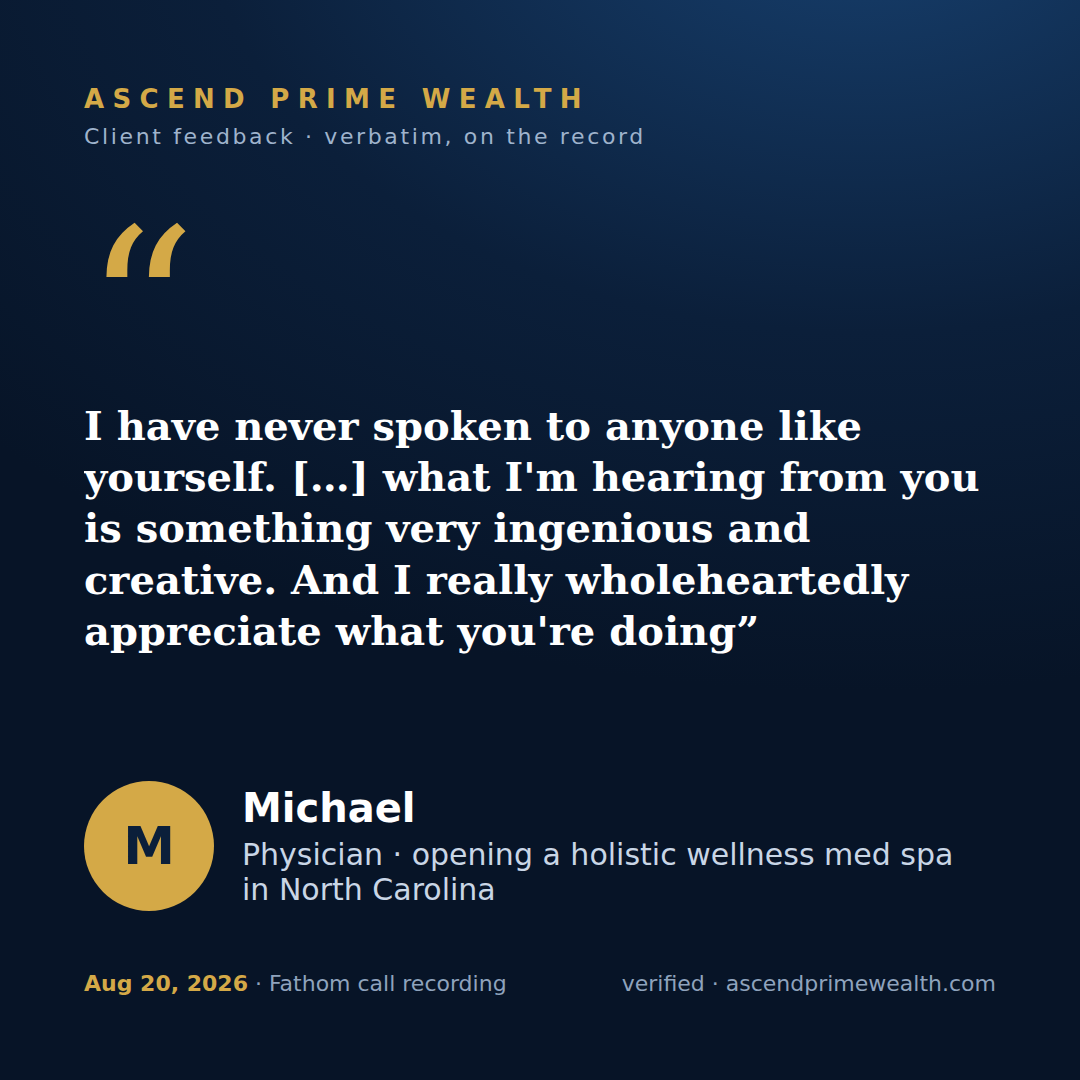
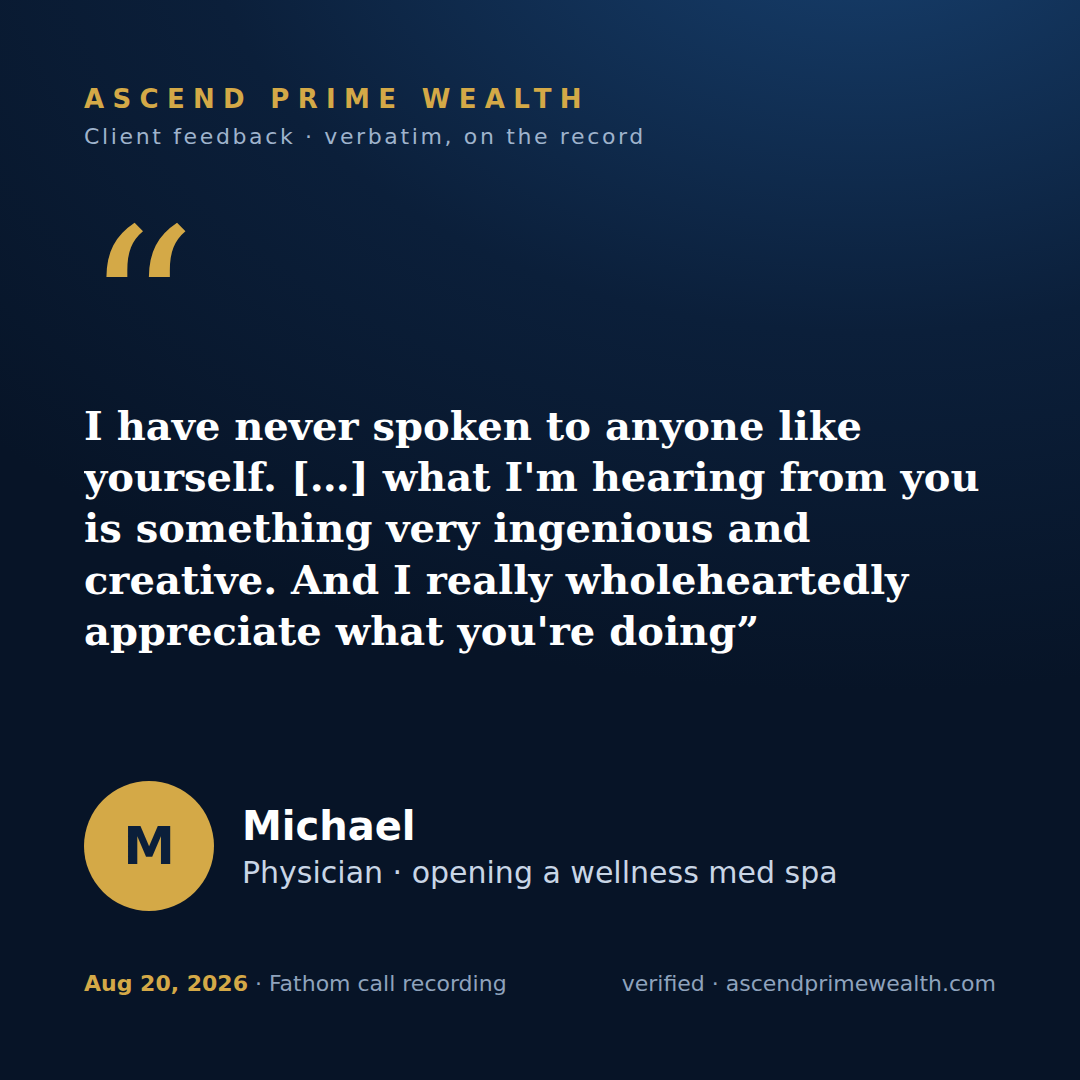
Public testimonial cards: profession-only background lines (no identifying detail on ad-facing cards)
Claude-Session: https://claude.ai/code/session_01H4vSayz99qHXuqTuNz6ncg

Changed region(s): [[0.2139, 0.7333, 0.8861, 0.8556]]

diff --git a/ops/tools/testimonials_cards.py b/ops/tools/testimonials_cards.py
@@ -30,13 +30,13 @@ def F(call, sec): return f"https://fathom.video/calls/{call}?timestamp={sec}"
 
 # ---- who they are, in their own words, each with the line it comes from ----------------------
 PEOPLE = {
- "Matthew LoGuidice": dict(bg="Tech-startup founder · formerly owned 300 apartments", proof=F(723857619,1800), proof_note="6/25 call: \"I got to raise some more money for my startup tech company\" (11:40) · \"I used to own 300 apartments\" (30:01)"),
+ "Matthew LoGuidice": dict(bg="Tech-startup founder · formerly owned 300 apartments", public_bg="Tech-startup founder · former multifamily owner", proof=F(723857619,1800), proof_note="6/25 call: \"I got to raise some more money for my startup tech company\" (11:40) · \"I used to own 300 apartments\" (30:01)"),
  "Ashwini Anand":     dict(bg="Cardiologist", proof=F(764436554,359), proof_note="7/29 call: \"you know me, I'm a busy cardiologist\" (5:59)"),
- "Michael Moore":     dict(bg="Physician · opening a holistic wellness med spa in North Carolina", proof=F(795906439,1896), proof_note="8/26 call: \"as a physician\" (3:33) · \"a wellness medical spa\" (31:36)"),
- "Nick (Nazir) Samara": dict(bg="Family-entertainment business owner (indoor playland → outdoor events)", proof=F(795906442,1108), proof_note="8/25 call: \"indoor playland for family, children… we used to have multiple locations\" (18:28)"),
+ "Michael Moore":     dict(bg="Physician · opening a holistic wellness med spa in North Carolina", public_bg="Physician · opening a wellness med spa", proof=F(795906439,1896), proof_note="8/26 call: \"as a physician\" (3:33) · \"a wellness medical spa\" (31:36)"),
+ "Nick (Nazir) Samara": dict(bg="Family-entertainment business owner (indoor playland → outdoor events)", public_bg="Family-entertainment business owner", proof=F(795906442,1108), proof_note="8/25 call: \"indoor playland for family, children… we used to have multiple locations\" (18:28)"),
  "Yeshaya Dank":      dict(bg="Serial entrepreneur · 13 businesses, 7 more in development", proof=F(783351348,3844), proof_note="8/14 call: \"I have like 13 businesses and another seven in development\" (1:04:04)"),
- "Ed (Edwin) Choi":   dict(bg="Owner of multiple medical clinics incl. a cosmetic-surgery practice", proof=F(728895030,802), proof_note="6/30 call: \"Jonah Medical Group, Nanum Medical Group, VM Cosmetic Surgery\" (13:22) · \"one of my clinics\" (9:32)"),
- "Jill Peralta":      dict(bg="20-year military veteran · Space Force acquisitions program manager · acquiring a beauty business", proof=F(739063325,1335), proof_note="7/9 call: \"I'm a veteran, 20 years\" (11:58) · \"Space Force… program manager, acquisitions field\" (22:15) · \"beauty industry, teeth whitening\" (3:39)"),
+ "Ed (Edwin) Choi":   dict(bg="Owner of multiple medical clinics incl. a cosmetic-surgery practice", public_bg="Owner of multiple medical clinics", proof=F(728895030,802), proof_note="6/30 call: \"Jonah Medical Group, Nanum Medical Group, VM Cosmetic Surgery\" (13:22) · \"one of my clinics\" (9:32)"),
+ "Jill Peralta":      dict(bg="20-year military veteran · Space Force acquisitions program manager · acquiring a beauty business", public_bg="20-year military veteran · acquiring a beauty business", proof=F(739063325,1335), proof_note="7/9 call: \"I'm a veteran, 20 years\" (11:58) · \"Space Force… program manager, acquisitions field\" (22:15) · \"beauty industry, teeth whitening\" (3:39)"),
  "Allen Sims":        dict(client=False, bg="Financial advisor (Northwestern Mutual) · startup founder", proof=F(759494613,0), proof_note="7/27 call: \"I'm a financial advisor for Northwestern Mutual\""),
  "Gunjan Patel":      dict(client=False, bg="Acquiring a pharmacy · works with medical-practice owners", proof=F(767888047,2255), proof_note="8/1 call: \"After I acquire a pharmacy\" (37:35)"),
 }
@@ -131,7 +131,7 @@ def render(idx, person, text, q, story, public=False):
  <div class="mid"><div class="qmark">&ldquo;</div>
   <div class="quote">{html.escape(text)}&rdquo;</div></div>
  <div>
-  <div class="who"><div class="av">{mono}</div><div><div class="name">{html.escape(shown)}</div><div class="bg">{html.escape(PEOPLE[person]['bg'])}</div></div></div>
+  <div class="who"><div class="av">{mono}</div><div><div class="name">{html.escape(shown)}</div><div class="bg">{html.escape(PEOPLE[person].get('public_bg', PEOPLE[person]['bg']) if public else PEOPLE[person]['bg'])}</div></div></div>
   <div class="foot"><span><b>{nice_date(q['date'])}</b> · {src}</span><span>verified · ascendprimewealth.com</span></div>
  </div></div></body></html>"""
     kind = ("public-" if public else "") + ("story" if story else "square")
@@ -164,7 +164,7 @@ L = ["# Testimonial card library — Ascend Prime Wealth\n",
      "Every card's text is a verbatim, contiguous excerpt of a quote in the record (the generator refuses anything else). `[…]` marks skipped words. Click **proof** to jump to the second of audio or the GHL thread. Click a download link, then *Save image as…* (or use the raw URL directly in an ad tool).\n",
      "**Photos:** no client headshot exists in GHL (0 of 259 contacts have a profile photo) and I do not pull faces off the web. Cards show initials until a headshot is dropped at `ops/data/testimonials/photos/<person-slug>.jpg` and the generator is re-run.\n",
      "**Consent (Alan, 2026-09-07, REGISTER #187):** *\"i already have everyone's signature and consent when coming on as a client\"* — the client agreement signed at onboarding covers use of feedback. **Public set = first-name-only cards, clients only.** Allen Sims and Gunjan Patel were prospects (no client agreement), so they have internal cards only, no public variant.\n",
-     "**Two versions of every client card:** *internal* (full name) for the sales team and the record, *public* (first name only) for ads and social.\n",
+     "**Two versions of every client card:** *internal* (full name, specific background) for the sales team and the record, *public* (first name only, profession-only background) for ads and social.\n",
      "## People\n| Person | Background (their own words, linked) | Cards | Headshot |\n|---|---|---|---|"]
 for p, info in PEOPLE.items():
     n = sum(1 for r in rows if r["person"] == p)
